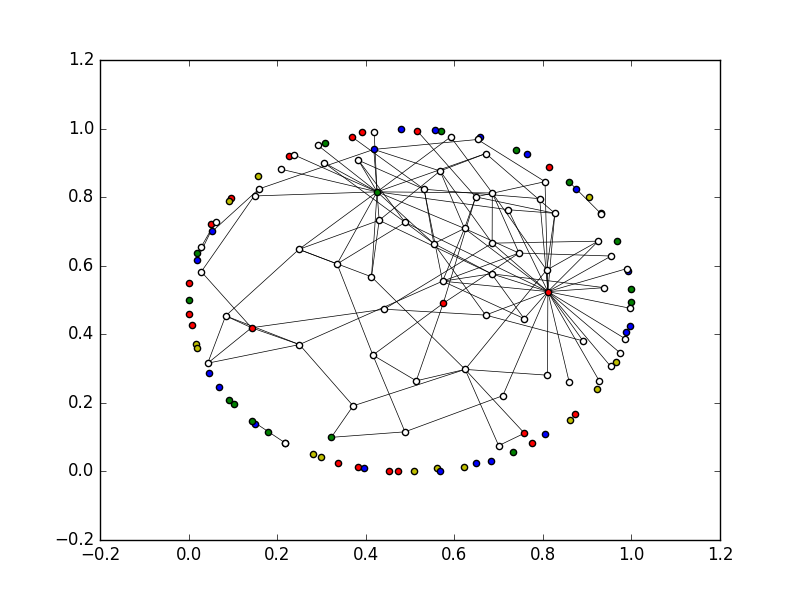
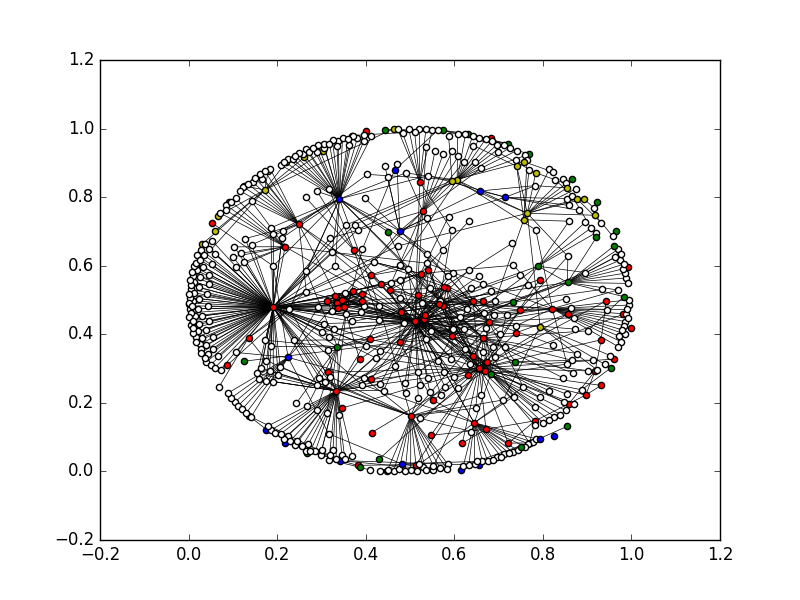
plot3

Changed region(s): [[0.2188, 0.21, 0.8125, 0.81]]

diff --git a/plot3.py b/plot3.py
@@ -68,7 +68,7 @@ class Graph(object):
 		self.dangling = set([node for node in self.neighbors_baseline if not bool(self.neighbors_baseline[node])])
 		self.connected = set([node for node in self.neighbors_rl if bool(self.neighbors_rl[node] & self.dangling)]) | self.dangling
 
-	def graph(self):
+	def graph1(self):
 		edges = []
 		for node in self.connected:
 			neighbors = self.neighbors_rl[node] & self.connected
@@ -77,12 +77,37 @@ class Graph(object):
 					edges.append((node, neighbor))
 		return list(self.connected), edges
 
+	def graph2(self):
+		nodes, edges = set(), set()
+		colored = set(self.neighbors_baseline.keys())
+		for node, neighbors in self.neighbors_rl.items():
+			if node not in self.neighbors_baseline and bool(neighbors & colored):
+				nodes.add(node)
+				for neighbor in neighbors:
+					if neighbor in self.neighbors_baseline:
+						nodes.add(neighbor)
+		for node, neighbors in self.neighbors_rl.items():
+			if node in nodes and node in self.neighbors_baseline:
+				intersection = neighbors & nodes
+				for neighbor in intersection:
+					edges.add((node, neighbor))
+
+		baseline_nodes = nodes & colored
+		baseline_edges = set()
+		for node, neighbors in self.neighbors_baseline.items():
+			if node in baseline_nodes:
+				intersection = neighbors & baseline_nodes
+				for neighbor in intersection:
+					baseline_edges.add((node, neighbor))
+
+		return list(nodes), list(edges), list(baseline_nodes), list(baseline_edges)
 
 
 if __name__ == '__main__':
 	cwd = 'data/'
 	test_authors = read_test()
 	graph = Graph()
-	authors, links = graph.graph()
-	plot(graph.dangling, [], test_authors, 'baseline')
+	authors, links, baseline_authors, baseline_links = graph.graph2()
+	# plot(graph.dangling, [], test_authors, 'baseline')
+	plot(baseline_authors, baseline_links, test_authors, 'baseline')
 	plot(authors, links, test_authors, 'rl')
